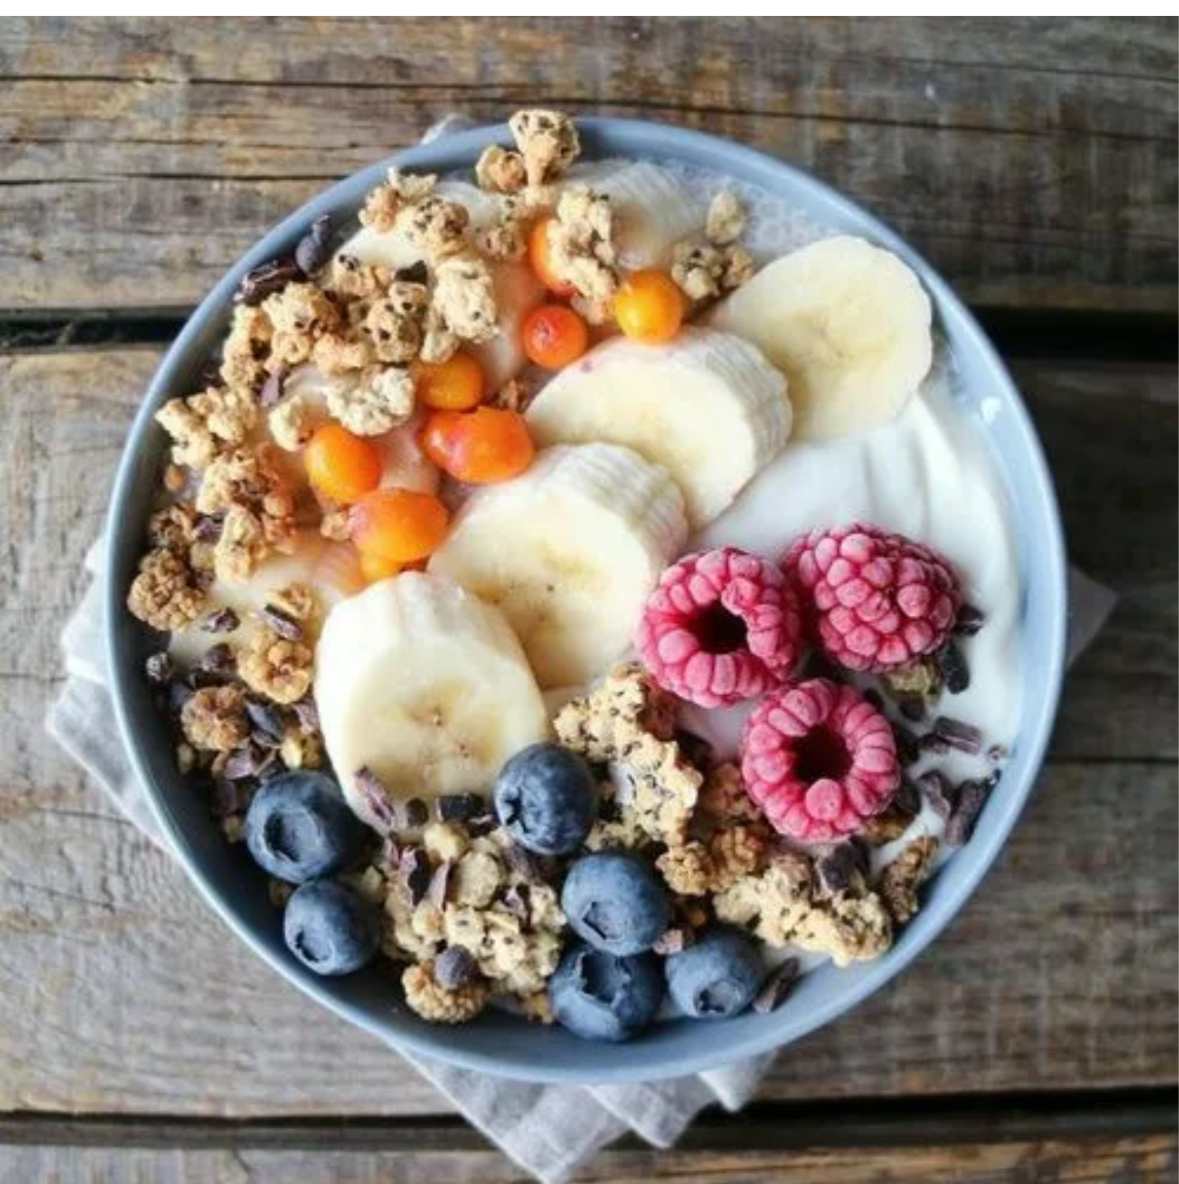
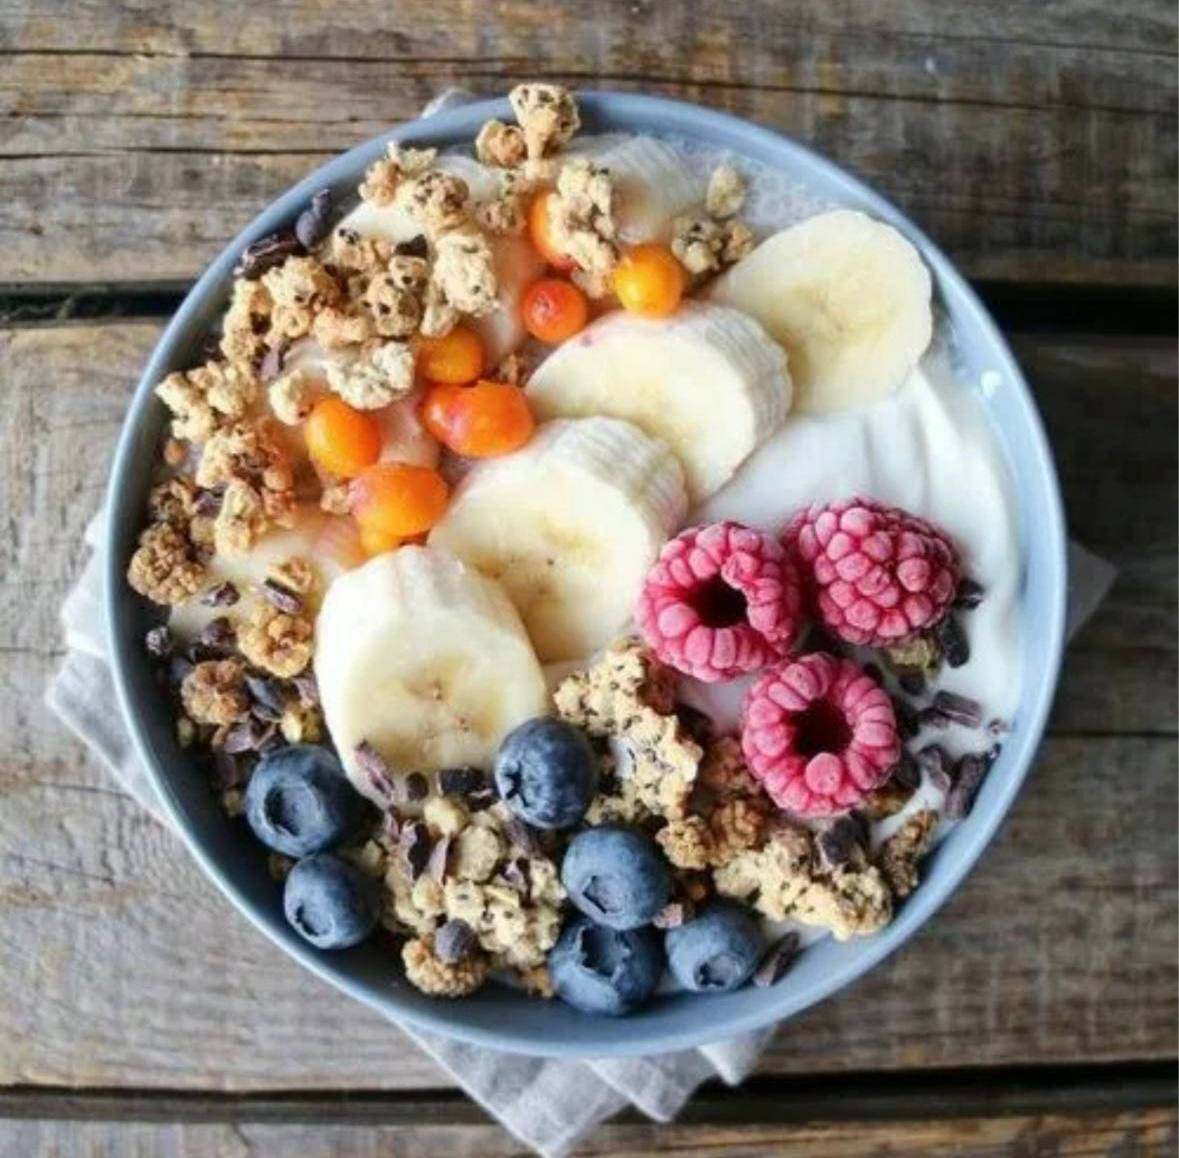
minor upgrades and fixes

diff --git a/views/components/banner_templ.go b/views/components/banner_templ.go
@@ -37,7 +37,7 @@ func Banner(data BannerData) templ.Component {
 			templ_7745c5c3_Var1 = templ.NopComponent
 		}
 		ctx = templ.ClearChildren(ctx)
-		templ_7745c5c3_Err = BannerStyle(data.ImageURL).Render(ctx, templ_7745c5c3_Buffer)
+		templ_7745c5c3_Err = BannerStyle().Render(ctx, templ_7745c5c3_Buffer)
 		if templ_7745c5c3_Err != nil {
 			return templ_7745c5c3_Err
 		}
@@ -54,33 +54,33 @@ func Banner(data BannerData) templ.Component {
 		if templ_7745c5c3_Err != nil {
 			return templ_7745c5c3_Err
 		}
-		templ_7745c5c3_Err = templruntime.WriteString(templ_7745c5c3_Buffer, 2, "\"><p class=\"banner-title\">")
+		templ_7745c5c3_Err = templruntime.WriteString(templ_7745c5c3_Buffer, 2, "\"><div class=\"banner-text-bg\"><div class=\"banner-title\">")
 		if templ_7745c5c3_Err != nil {
 			return templ_7745c5c3_Err
 		}
 		var templ_7745c5c3_Var3 string
 		templ_7745c5c3_Var3, templ_7745c5c3_Err = templ.JoinStringErrs(data.Title)
 		if templ_7745c5c3_Err != nil {
-			return templ.Error{Err: templ_7745c5c3_Err, FileName: `views/components/banner.templ`, Line: 14, Col: 43}
+			return templ.Error{Err: templ_7745c5c3_Err, FileName: `views/components/banner.templ`, Line: 15, Col: 49}
 		}
 		_, templ_7745c5c3_Err = templ_7745c5c3_Buffer.WriteString(templ.EscapeString(templ_7745c5c3_Var3))
 		if templ_7745c5c3_Err != nil {
 			return templ_7745c5c3_Err
 		}
-		templ_7745c5c3_Err = templruntime.WriteString(templ_7745c5c3_Buffer, 3, "</p><p class=\"banner-text\">")
+		templ_7745c5c3_Err = templruntime.WriteString(templ_7745c5c3_Buffer, 3, "</div><div class=\"banner-text\">")
 		if templ_7745c5c3_Err != nil {
 			return templ_7745c5c3_Err
 		}
 		var templ_7745c5c3_Var4 string
 		templ_7745c5c3_Var4, templ_7745c5c3_Err = templ.JoinStringErrs(data.Text)
 		if templ_7745c5c3_Err != nil {
-			return templ.Error{Err: templ_7745c5c3_Err, FileName: `views/components/banner.templ`, Line: 15, Col: 41}
+			return templ.Error{Err: templ_7745c5c3_Err, FileName: `views/components/banner.templ`, Line: 16, Col: 47}
 		}
 		_, templ_7745c5c3_Err = templ_7745c5c3_Buffer.WriteString(templ.EscapeString(templ_7745c5c3_Var4))
 		if templ_7745c5c3_Err != nil {
 			return templ_7745c5c3_Err
 		}
-		templ_7745c5c3_Err = templruntime.WriteString(templ_7745c5c3_Buffer, 4, "</p></div>")
+		templ_7745c5c3_Err = templruntime.WriteString(templ_7745c5c3_Buffer, 4, "</div></div></div>")
 		if templ_7745c5c3_Err != nil {
 			return templ_7745c5c3_Err
 		}
@@ -88,7 +88,7 @@ func Banner(data BannerData) templ.Component {
 	})
 }
 
-func BannerStyle(pictureUrl string) templ.Component {
+func BannerStyle() templ.Component {
 	return templruntime.GeneratedTemplate(func(templ_7745c5c3_Input templruntime.GeneratedComponentInput) (templ_7745c5c3_Err error) {
 		templ_7745c5c3_W, ctx := templ_7745c5c3_Input.Writer, templ_7745c5c3_Input.Context
 		if templ_7745c5c3_CtxErr := ctx.Err(); templ_7745c5c3_CtxErr != nil {
@@ -109,7 +109,7 @@ func BannerStyle(pictureUrl string) templ.Component {
 			templ_7745c5c3_Var5 = templ.NopComponent
 		}
 		ctx = templ.ClearChildren(ctx)
-		templ_7745c5c3_Err = templruntime.WriteString(templ_7745c5c3_Buffer, 5, "<style>\n        .banner {\n            height: 400px;\n            align-content: end;\n            max-width: 300px;\n            margin: 10px 0 0 0;\n            background-color: var(--color-dark);\n            border-radius: 10px;\n            background-size: cover;\n        }\n        .banner-text {\n            background-color: rgba(255,255,255,0.75);\n            border-bottom-left-radius: 10px;\n            border-bottom-right-radius: 10px;\n            margin: 0 5px 5px 5px;\n            padding: 5px;\n            font-size: 12px;\n            color: var(--color-dark);\n            display: -webkit-box;\n            -webkit-line-clamp: 5; /* Ограничение в 3 строки */\n            -webkit-box-orient: vertical;\n            overflow: hidden;\n            text-overflow: ellipsis;\n        }\n        .banner-title {\n            background-color: rgba(255,255,255,0.75);\n            margin: 5px 5px 0 5px;\n            padding: 5px;\n            border-top-left-radius: 10px;\n            border-top-right-radius: 10px;\n            font-size: 18px;\n            font-weight: bold;\n        }\n    </style>")
+		templ_7745c5c3_Err = templruntime.WriteString(templ_7745c5c3_Buffer, 5, "<style>\n        .banner {\n            height: 400px;\n            align-content: end;\n            max-width: 300px;\n            margin: 10px 0 0 0;\n            background-color: var(--color-dark);\n            border-radius: 10px;\n            background-size: cover;\n        }\n        .banner-text-bg {\n            background-color: rgba(255,255,255,0.75);\n            margin: 5px;\n            padding: 5px;\n            border-radius: 10px;\n        }\n        .banner-title {\n            font-size: 18px;\n            font-weight: bold;\n        }\n        .banner-text {\n            font-size: 12px;\n            color: var(--color-dark);\n            display: -webkit-box;\n            -webkit-line-clamp: 5;\n            -webkit-box-orient: vertical;\n            overflow: hidden;\n            text-overflow: ellipsis;\n        }\n    </style>")
 		if templ_7745c5c3_Err != nil {
 			return templ_7745c5c3_Err
 		}

diff --git a/views/main_templ.go b/views/main_templ.go
@@ -101,7 +101,7 @@ func MainStyle() templ.Component {
 			templ_7745c5c3_Var3 = templ.NopComponent
 		}
 		ctx = templ.ClearChildren(ctx)
-		templ_7745c5c3_Err = templruntime.WriteString(templ_7745c5c3_Buffer, 3, "<style>\n        .main {\n            padding: 5px 100px;\n            background-color: gray;\n        }\n    </style>")
+		templ_7745c5c3_Err = templruntime.WriteString(templ_7745c5c3_Buffer, 3, "<style>\n        .main {\n            padding: 5px 100px;\n            background-color: var(--color-superlight);\n        }\n    </style>")
 		if templ_7745c5c3_Err != nil {
 			return templ_7745c5c3_Err
 		}